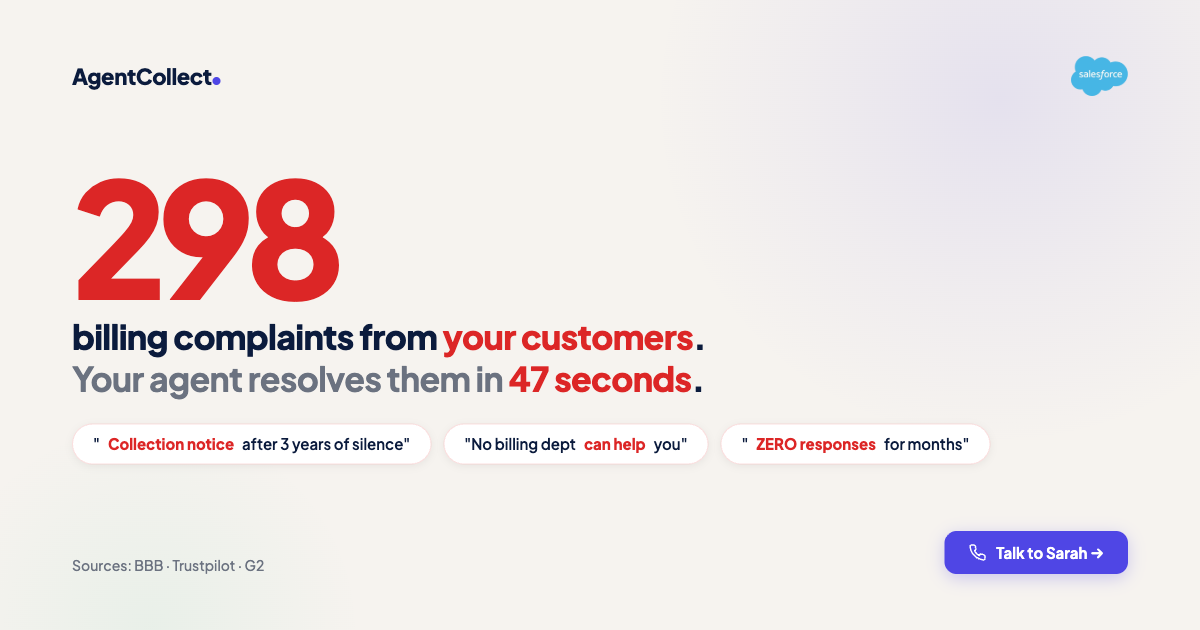
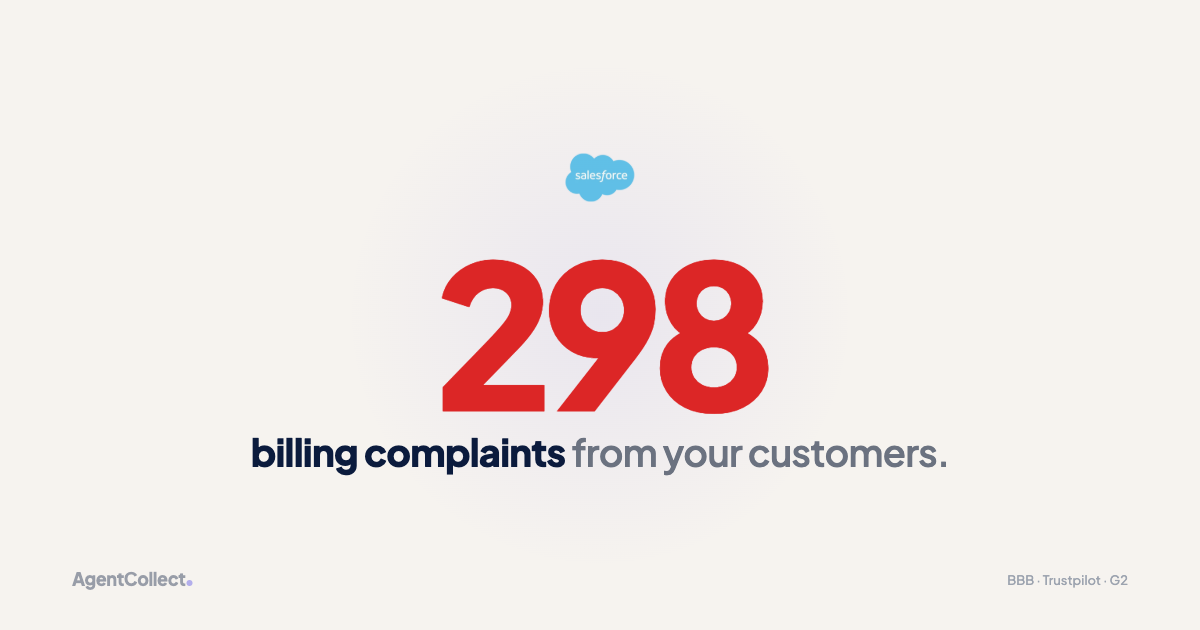
feat: OG image — Marc Benioff energy — one number, one fact, nothing else
Salesforce cloud → 298 → "billing complaints from your customers."
Zero clutter. Readable at iMessage thumbnail size.

diff --git a/v3/og-salesforce.html b/v3/og-salesforce.html
@@ -5,67 +5,41 @@
 <link href="https://fonts.googleapis.com/css2?family=Plus+Jakarta+Sans:wght@400;500;600;700;800;900&display=swap" rel="stylesheet">
 <style>
 *{margin:0;padding:0;box-sizing:border-box}
-body{width:1200px;height:630px;overflow:hidden;font-family:'Plus Jakarta Sans',system-ui,sans-serif;background:#f6f3ef;color:#0B1B3D;position:relative}
+body{width:1200px;height:630px;overflow:hidden;font-family:'Plus Jakarta Sans',system-ui,sans-serif;background:#f6f3ef;color:#0B1B3D;position:relative;display:flex;align-items:center;justify-content:center}
 
-/* Warm indigo halo — like agentcollect.com hero */
-.glow-1{position:absolute;width:700px;height:700px;top:-250px;right:-150px;background:radial-gradient(circle,rgba(79,70,229,.10) 0%,rgba(79,70,229,.04) 40%,transparent 70%);border-radius:50%}
-.glow-2{position:absolute;width:500px;height:500px;bottom:-250px;left:-100px;background:radial-gradient(circle,rgba(16,185,129,.06) 0%,transparent 60%);border-radius:50%}
+/* Halo */
+.glow{position:absolute;width:600px;height:600px;top:50%;left:50%;transform:translate(-50%,-50%);background:radial-gradient(circle,rgba(79,70,229,.08) 0%,transparent 60%);border-radius:50%}
 
-.content{position:relative;z-index:1;padding:56px 72px;height:100%;display:flex;flex-direction:column;justify-content:space-between}
+.content{position:relative;z-index:1;text-align:center;max-width:900px}
 
-/* Top bar */
-.top{display:flex;align-items:center;justify-content:space-between}
-.brand{font-size:22px;font-weight:900;letter-spacing:-.4px;color:#0B1B3D}
-.brand .dot{display:inline-block;width:8px;height:8px;border-radius:50%;background:#4F46E5;margin-left:1px}
-.sf-logo{height:40px;opacity:.7}
+/* Salesforce logo */
+.sf-logo{height:48px;opacity:.6;margin-bottom:40px}
 
-/* Center — the punch */
-.center{text-align:left}
-.stat-num{font-size:160px;font-weight:900;letter-spacing:-.06em;line-height:.9;color:#dc2626;margin-bottom:8px}
-.stat-label{font-size:34px;font-weight:800;letter-spacing:-.02em;color:#0B1B3D;margin-bottom:24px;line-height:1.25}
-.stat-label em{font-style:normal;color:#dc2626;font-weight:900}
-.stat-label .muted{color:#6b7280;font-weight:700}
+/* The number */
+.num{font-size:200px;font-weight:900;letter-spacing:-.06em;line-height:.85;color:#dc2626;margin-bottom:12px}
 
-/* Review pills */
-.pills{display:flex;gap:12px;flex-wrap:wrap}
-.pill{display:inline-flex;align-items:center;gap:8px;background:#fff;border:1px solid rgba(220,38,38,.15);border-radius:100px;padding:10px 20px;font-size:15px;font-weight:600;color:#0B1B3D;white-space:nowrap;box-shadow:0 2px 8px rgba(0,0,0,.06)}
-.pill .hl{color:#dc2626;font-weight:800}
+/* The line */
+.line{font-size:38px;font-weight:800;letter-spacing:-.02em;color:#0B1B3D;line-height:1.3}
+.line .muted{color:#6b7280;font-weight:600}
 
-/* Bottom */
-.bottom{display:flex;align-items:flex-end;justify-content:space-between}
-.bottom-left{font-size:14px;color:#6b7280;font-weight:500}
-.bottom-right{display:flex;align-items:center;gap:10px;background:#4F46E5;border-radius:12px;padding:12px 24px;box-shadow:0 4px 16px rgba(79,70,229,.25)}
-.bottom-right .label{font-size:15px;font-weight:700;color:#fff}
+/* Brand */
+.brand{position:absolute;bottom:40px;left:72px;font-size:18px;font-weight:900;letter-spacing:-.4px;color:#0B1B3D;opacity:.4}
+.brand .dot{display:inline-block;width:6px;height:6px;border-radius:50%;background:#4F46E5;margin-left:1px}
+
+.sources{position:absolute;bottom:42px;right:72px;font-size:13px;color:#9ca3af;font-weight:500}
 </style>
 </head>
 <body>
 
-<div class="glow-1"></div>
-<div class="glow-2"></div>
+<div class="glow"></div>
 
 <div class="content">
-  <div class="top">
-    <div class="brand">AgentCollect<span class="dot"></span></div>
-    <img src="https://cdn.brandfetch.io/salesforce.com/w/256/h/48/logo" alt="Salesforce" class="sf-logo" crossorigin="anonymous">
-  </div>
-
-  <div class="center">
-    <div class="stat-num">298</div>
-    <div class="stat-label">billing complaints from <em>your customers</em>.<br><span class="muted">Your agent resolves them in</span> <em>47 seconds</em>.</div>
-    <div class="pills">
-      <div class="pill">"<span class="hl">Collection notice</span> after 3 years of silence"</div>
-      <div class="pill">"No billing dept <span class="hl">can help</span> you"</div>
-      <div class="pill">"<span class="hl">ZERO responses</span> for months"</div>
-    </div>
-  </div>
-
-  <div class="bottom">
-    <div class="bottom-left">Sources: BBB · Trustpilot · G2</div>
-    <div class="bottom-right">
-      <svg width="18" height="18" viewBox="0 0 24 24" fill="none" stroke="#fff" stroke-width="2"><path d="M22 16.92v3a2 2 0 01-2.18 2 19.79 19.79 0 01-8.63-3.07 19.5 19.5 0 01-6-6 19.79 19.79 0 01-3.07-8.67A2 2 0 014.11 2h3a2 2 0 012 1.72c.127.96.361 1.903.7 2.81a2 2 0 01-.45 2.11L8.09 9.91a16 16 0 006 6l1.27-1.27a2 2 0 012.11-.45c.907.339 1.85.573 2.81.7A2 2 0 0122 16.92z"/></svg>
-      <span class="label">Talk to Sarah →</span>
-    </div>
-  </div>
+  <img src="https://cdn.brandfetch.io/salesforce.com/w/256/h/48/logo" alt="Salesforce" class="sf-logo" crossorigin="anonymous">
+  <div class="num">298</div>
+  <div class="line">billing complaints <span class="muted">from your customers.</span></div>
 </div>
+
+<div class="brand">AgentCollect<span class="dot"></span></div>
+<div class="sources">BBB · Trustpilot · G2</div>
 
 </body></html>
